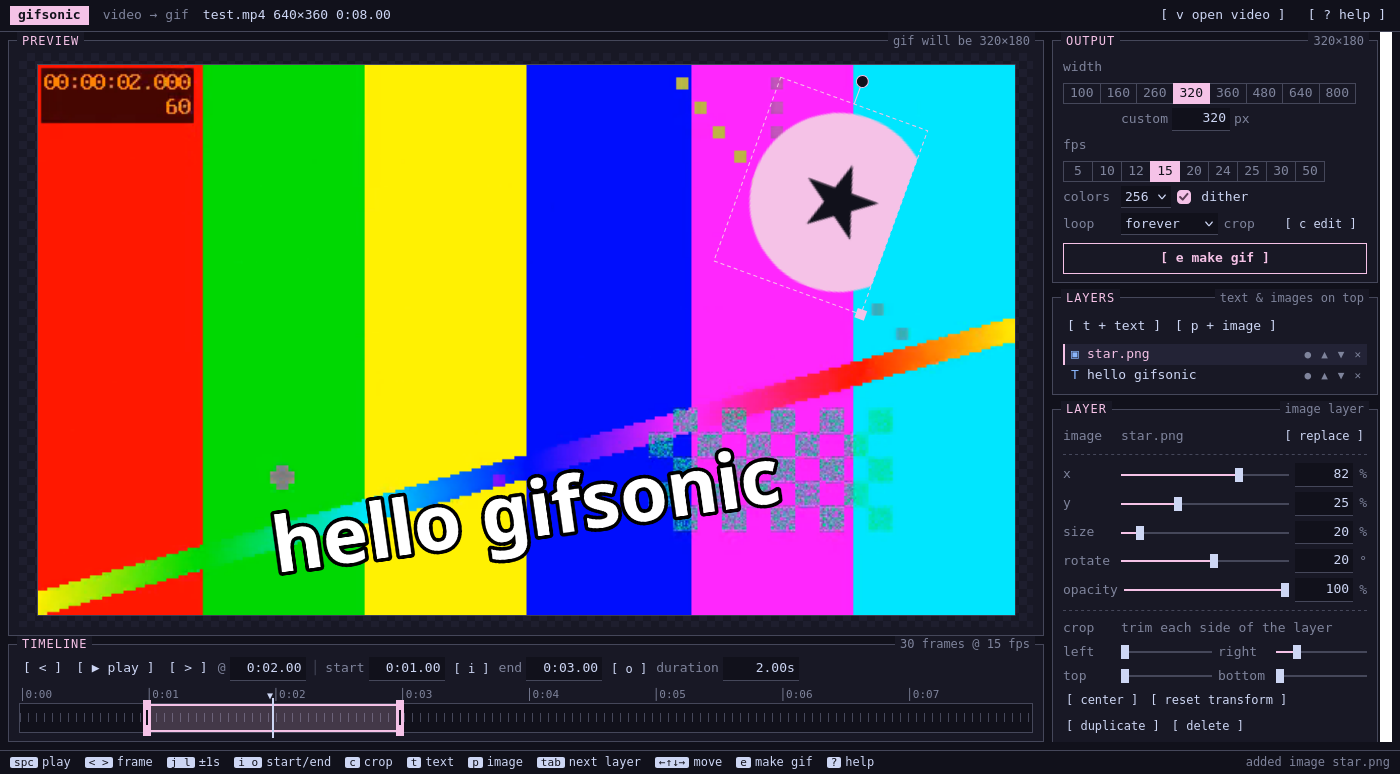
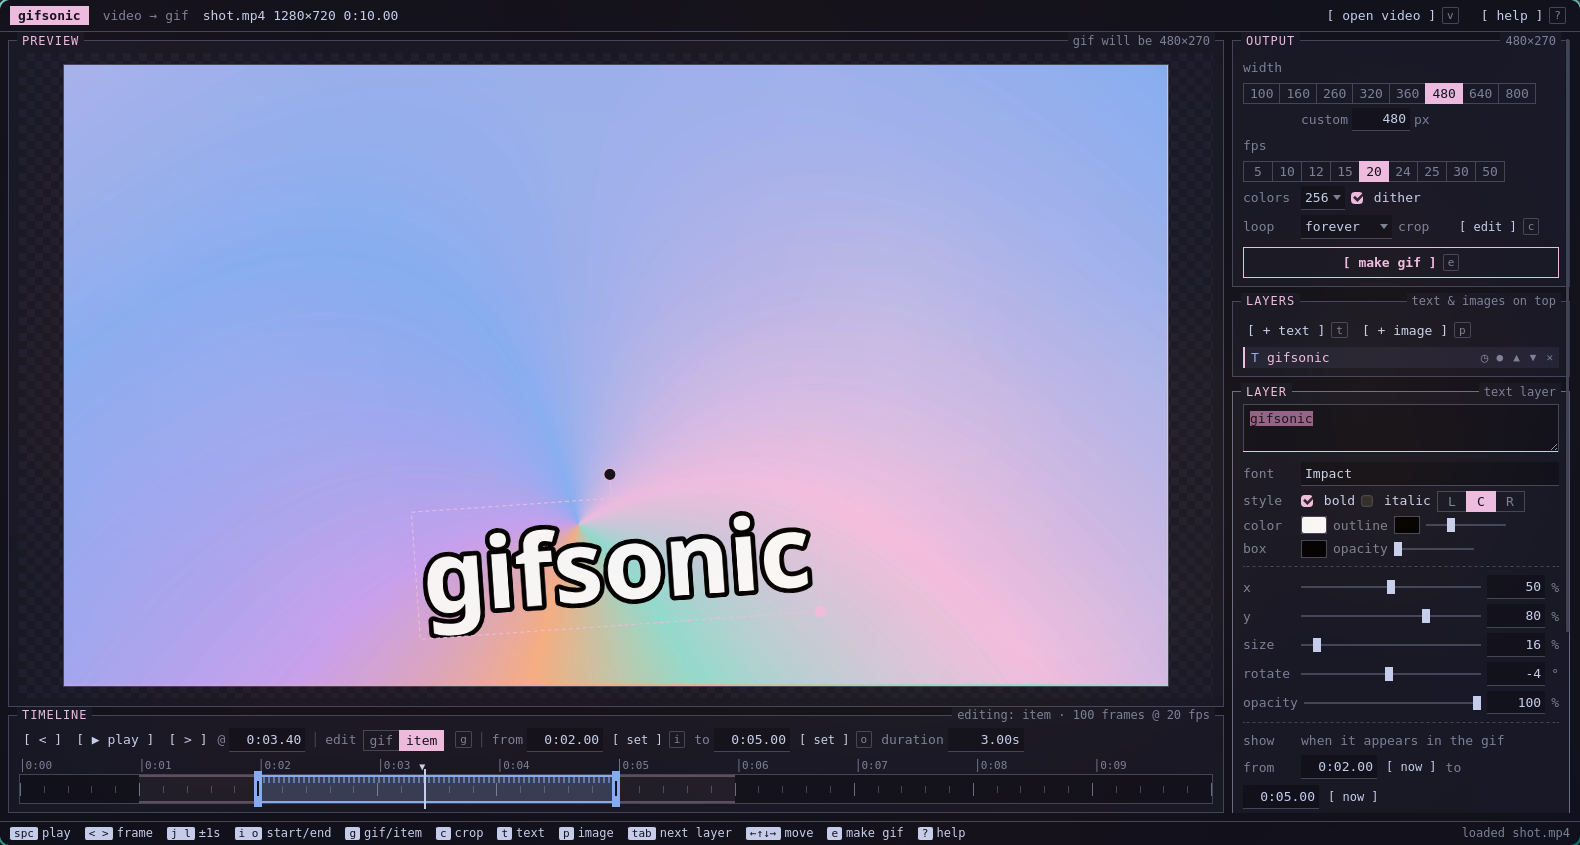
README: rewrite and new screenshot

diff --git a/README.md b/README.md
@@ -1,35 +1,40 @@
 # gifsonic
 
-Turn videos into GIFs — with a terminal-style interface that's still easy to
-use with a mouse.
+A little Linux app for turning videos into GIFs. It looks like a terminal
+program, but you can do everything with the mouse too.
 
 ![gifsonic](docs/screenshot.png)
 
-## Features
+## What it does
 
-- **Scrub** the video on a timeline, drag the start/end handles, or type exact
-  times (`12.5` or `1:02.5`). Step frame by frame with <kbd>&lt;</kbd> <kbd>&gt;</kbd>.
-- **Duration & fps**: set start, end or duration; 5–50 fps.
-- **Sizes**: 100, 160, 260, 320, 360, 480, 640, 800 px wide, or any custom width.
-- **Crop** the video by dragging, with free / 1:1 / 4:3 / 16:9 / 9:16 aspect.
-- **Text & image layers** on top: move, resize and rotate them by dragging
-  (or with the keyboard), trim (crop) each side, change opacity, reorder, hide.
-  Text has font, bold/italic, alignment, colour, outline and background box.
-- **Layer timing**: choose when each text/image appears and disappears, with
-  optional fade in / fade out.
-- **Edit the gif or an item**: click a text/image in the preview and the
-  timeline handles set *when it shows*, and crop trims *it*; click empty space
-  (or press <kbd>g</kbd>) to go back to editing the gif. Drag the top edge of a
-  highlighted span to slide it along the timeline.
-- **Good, small GIFs**: built-in encoder with a shared palette, optional
-  dithering, and frame-to-frame optimisation (only changed pixels are stored).
-- **Private**: everything runs on your computer. Nothing is uploaded.
-- **No lost work**: closing the window before you've saved a GIF asks first.
-- **Keyboard-driven** if you want it: press <kbd>?</kbd> in the app for all shortcuts.
+Open a video, pick the part you want, and press <kbd>e</kbd> to make the GIF.
 
-## Install (Linux)
+You can drag the start and end handles on the timeline, or type exact times
+like `12.5` or `1:02.5`. <kbd>&lt;</kbd> and <kbd>&gt;</kbd> step one frame
+at a time. Frame rate goes from 5 to 50 fps, and the width can be 100, 160,
+260, 320, 360, 480, 640 or 800 px, or anything you type in. Crop by dragging
+on the preview, either freely or locked to 1:1, 4:3, 16:9 or 9:16.
 
-Needs Python 3. `ffmpeg` is recommended (for converting unusual video formats).
+You can put text and images on top. Drag them to move, resize or rotate them
+(the keyboard works too), trim their edges, and change opacity or stacking
+order. Text gets a font, bold/italic, alignment, colour, an outline and an
+optional background box. Each layer can show for only part of the GIF, with a
+fade in or out if you want one.
+
+Clicking a text or image in the preview switches the timeline and crop over
+to that item, so the handles set when it shows up and crop trims the item
+itself. Click empty space or press <kbd>g</kbd> to go back to the GIF. You
+can also slide a whole span along the timeline by dragging its top edge.
+
+GIFs come out small. gifsonic has its own encoder with a shared palette,
+optional dithering, and it only stores the pixels that change between frames.
+Everything stays on your computer, and if you try to close it before saving a
+GIF, it asks first.
+
+## Install
+
+You need Python 3. `ffmpeg` is optional but worth having, since it lets
+gifsonic open formats like MKV, MOV and HEVC.
 
 ```sh
 git clone https://github.com/wagidevnull/gifsonic.git
@@ -37,29 +42,25 @@ cd gifsonic
 ./install.sh
 ```
 
-The installer puts gifsonic in your app menu and adds a `gifsonic` command —
-no root needed. It offers to install
-[pywebview](https://pywebview.flowrl.com/) + WebKitGTK so gifsonic opens in
-its own native window; skip that and it uses a browser window instead.
+No root needed. The installer adds gifsonic to your app menu, gives you a
+`gifsonic` command, and offers to install the window packages it needs
+(pywebview and WebKitGTK) using your package manager.
 
 ```sh
 gifsonic              # open the app
 gifsonic clip.mp4     # open a video straight away
 ```
 
-You can also right-click a video in your file manager → *Open with gifsonic*.
-GIFs are saved to `~/Pictures/gifsonic` (override with `GIFSONIC_SAVE_DIR`).
+You can also right-click a video in your file manager and pick *Open with
+gifsonic*. GIFs go to `~/Pictures/gifsonic`, or wherever `GIFSONIC_SAVE_DIR`
+points.
 
-Update: `git pull && ./install.sh`. Uninstall: `./install.sh --uninstall`.
-
-### Without installing
-
-gifsonic is a plain web page, so you can also just open `index.html` in a
-browser. It works the same, except videos your browser can't play natively
-(some MKV/MOV/HEVC files) can't be converted, and GIFs are downloaded instead
-of saved to `~/Pictures/gifsonic`.
+To update, run `git pull && ./install.sh`. To remove it, run
+`./install.sh --uninstall`.
 
 ## Keyboard
+
+Press <kbd>?</kbd> in the app to see these.
 
 | Key | Action |
 |---|---|
@@ -77,14 +78,6 @@ of saved to `~/Pictures/gifsonic`.
 | <kbd>del</kbd> | delete layer |
 | <kbd>e</kbd> | make the GIF |
 
-## How it works
-
-The interface is HTML/CSS/JS with no dependencies or build step. Frames are
-grabbed from the video with a `<canvas>` and encoded by gifsonic's own GIF
-encoder (`js/gif-encoder.js`) in a background worker. The `gifsonic` launcher
-is a small Python script that serves the app on `127.0.0.1` with a random
-token, opens the window, and handles ffmpeg conversion and saving.
-
 ## License
 
-MIT — see [LICENSE](LICENSE).
+MIT, see [LICENSE](LICENSE).
